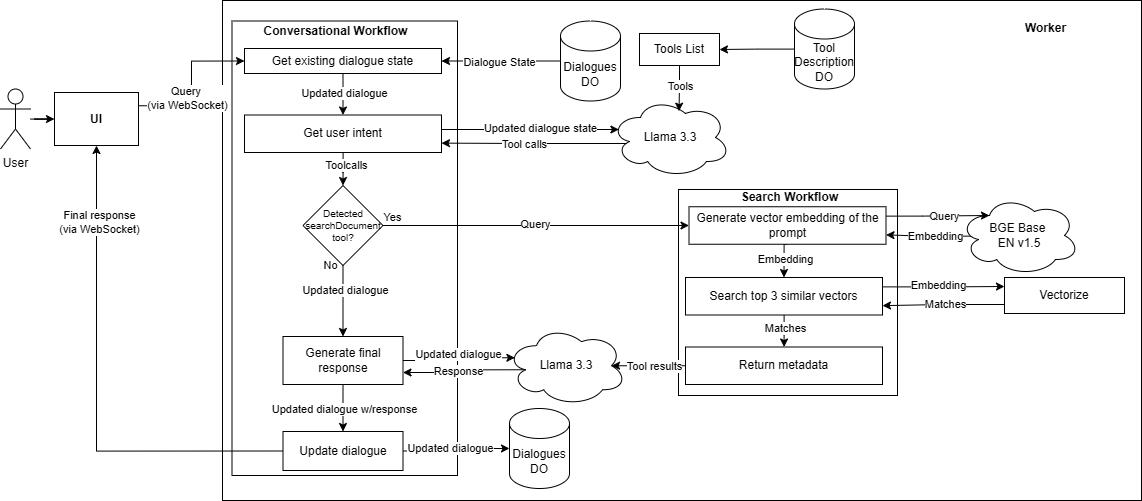
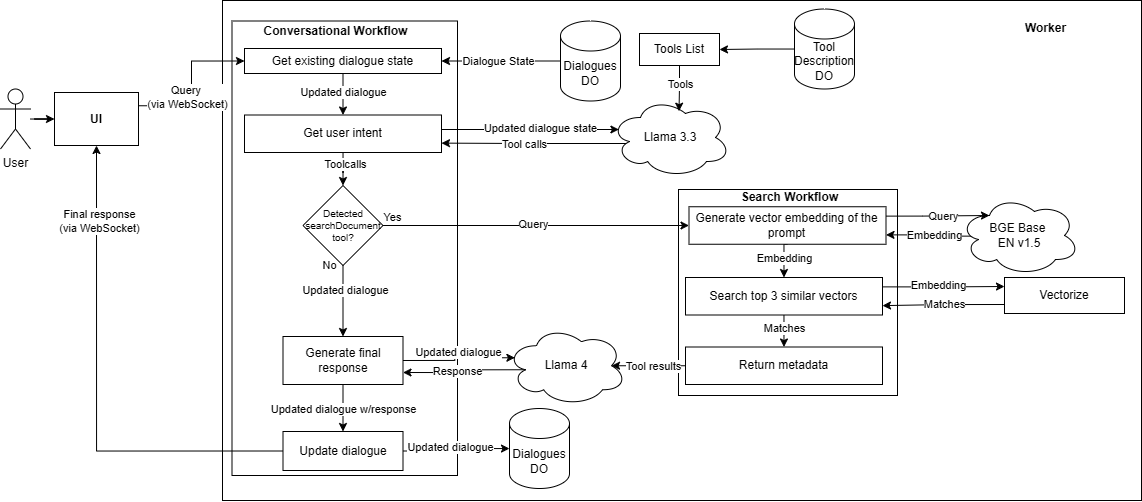
final readme and diagram update

diff --git a/README.md b/README.md
@@ -39,17 +39,18 @@ This project implements a **RAG (Retrieval-Augmented Generation)** pipeline. Unl
 
 ## 🛠 Technical Stack
 
-| Layer              | Technology                                           |
-| ------------------ | ---------------------------------------------------- |
-| Frontend Framework | React 19 + Vite                                      |
-| Styling            | Tailwind CSS v4                                      |
-| Frontend Hosting   | Cloudflare Pages                                     |
-| Backend Runtime    | Cloudflare Workers                                   |
-| Stateful Backend   | Cloudflare Durable Objects                           |
-| Async Workflows    | Cloudflare Workflows                                 |
-| Vector Database    | Cloudflare Vectorize                                 |
-| LLM                | Llama 3.3 (`llama-3.3-70b-instruct-fp8-fast`) — Meta |
-| Embedding Model    | BGE Base EN v1.5 (`bge-base-en-v1.5`) — BAAI         |
+| Layer              | Technology                                                        |
+| ------------------ | ----------------------------------------------------------------- |
+| Frontend Framework | React 19 + Vite                                                   |
+| Styling            | Tailwind CSS v4                                                   |
+| Frontend Hosting   | Cloudflare Pages                                                  |
+| Backend Runtime    | Cloudflare Workers                                                |
+| Stateful Backend   | Cloudflare Durable Objects                                        |
+| Async Workflows    | Cloudflare Workflows                                              |
+| Vector Database    | Cloudflare Vectorize                                              |
+| LLM (Chat)         | Llama 4 Scout (`@cf/meta/llama-4-scout-17b-16e-instruct`) — Meta  |
+| LLM (Reasoning)    | Llama 3.3 70B (`@cf/meta/llama-3.3-70b-instruct-fp8-fast`) — Meta |
+| Embedding Model    | BGE Base EN v1.5 (`bge-base-en-v1.5`) — BAAI                      |
 
 ---
 
